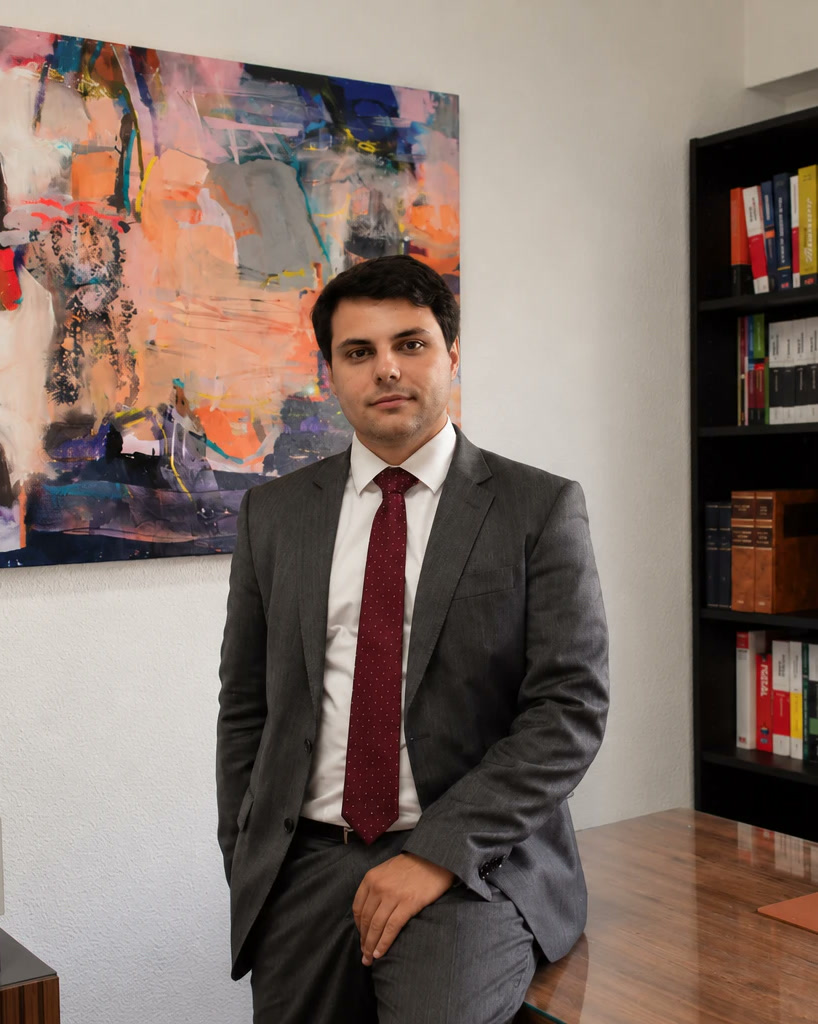
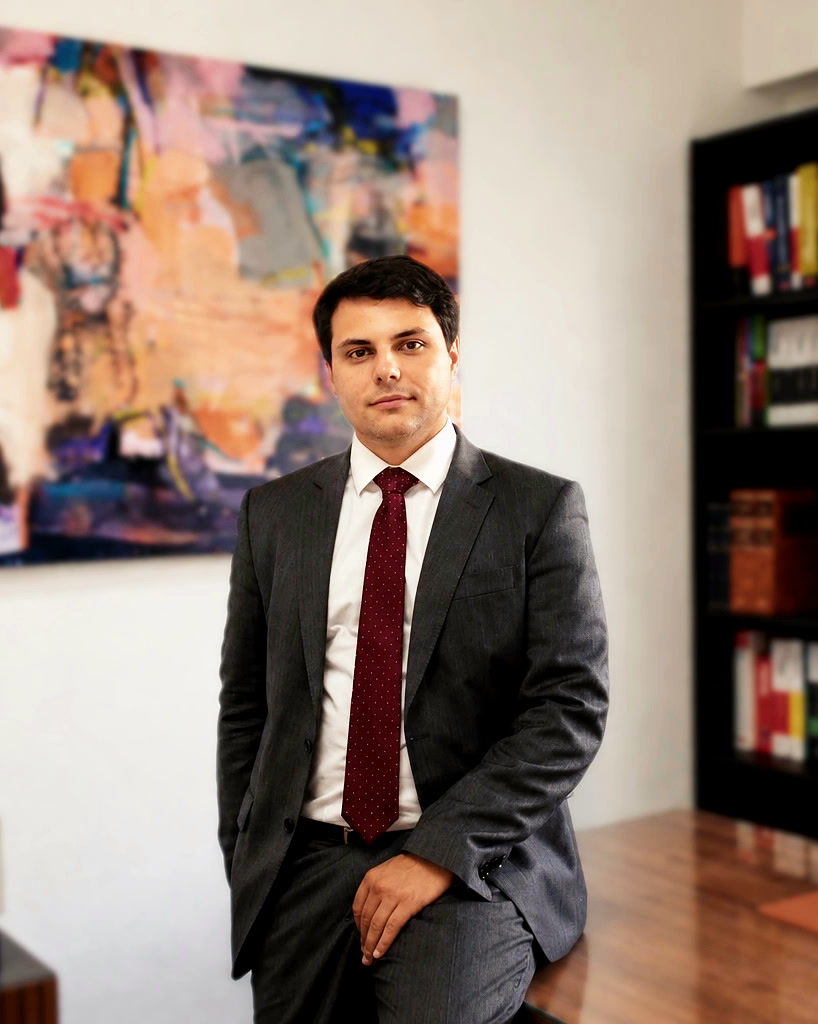
Perfil do Diogo: mesmo tratamento da foto do João

diff --git a/equipa-diogo.html b/equipa-diogo.html
@@ -54,7 +54,7 @@
 <main>
 <section class="light section pf-page">
   <div class="wrap"><p class="hx-eye pf-crumb"><a href="index.html" data-i18n="nav.index">Início</a><span aria-hidden="true">/</span><a href="equipa.html" data-i18n="equipa.crumb">Equipa</a><span aria-hidden="true">/</span><span>Diogo Lopes Rodrigues</span></p><article class="profile" id="diogo">
-      <figure class="photo fluted has-photo"><img class="ph-img" src="assets/img/fotos/perfil-diogo.jpg?v=8" alt="Diogo Lopes Rodrigues" decoding="async" width="819" height="1024"></figure>
+      <figure class="photo fluted has-photo"><img class="ph-img" src="assets/img/fotos/perfil-diogo.jpg?v=9" alt="Diogo Lopes Rodrigues" decoding="async" width="819" height="1024"></figure>
       <div>
         <p class="role" data-i18n="team.role">Sócio fundador</p>
         <h1>Diogo Lopes Rodrigues</h1>
